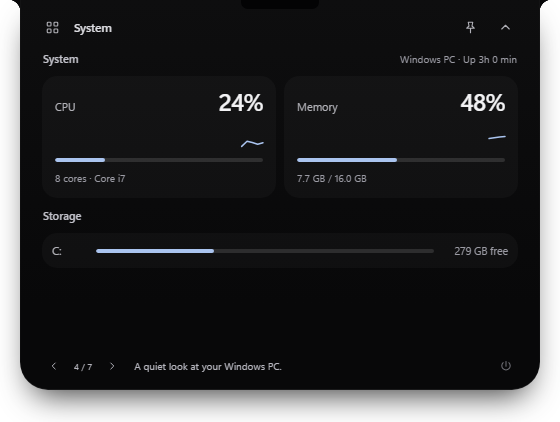
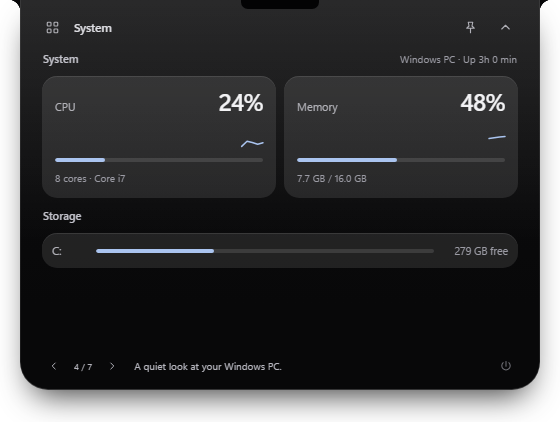
Make the glass levels visible, and stop telling signed-in users to sign in
Two reported faults, both real.

The glass control changed nothing anyone could see. Liquid and Frosted
differed only by 8px versus 12px of blur, over surfaces with almost
nothing behind them to blur, and the bloom was pinned to one opacity off
the media tab, so the level never reached the rest of the panel. Each
level now carries its own amount of light across the whole surface:
lens strength on the card, surface translucency, saturation, bloom and
rim, with Solid genuinely opaque. The renderer suite measures the mean
luminance of the rendered panel at each level and fails if the closest
pair is indistinguishable, so "the control does nothing" cannot come
back quietly.

The Claude card offered `claude auth login` to an account that was
already signed in. The CLI answers get_usage successfully and reports
subscription_type null with rate_limits_available false — a plan that
publishes no limits, not a missing session. That case is now its own
status and says so, and the sign-in prompt is kept for a profile with
no account on file.

Also fixes a sweep overlay that widened .layer-open's scroll area and
pushed music content around at the narrowest expanded width.

Tests: 16 unit suites and 127 renderer checks.

Changed region(s): [[0.0607, 0.154, 0.9411, 0.4313], [0.0304, 0.0, 0.9714, 0.0616]]

diff --git a/src/renderer/islet.css b/src/renderer/islet.css
@@ -26,28 +26,71 @@ button:focus-visible, select:focus-visible, input:focus-visible, textarea:focus-
 }
 body.state-open #card { background: var(--surface-open); box-shadow: 0 16px 32px -12px #000c; }
 body.state-open:not([data-glass="off"]) #card {
-  background: linear-gradient(180deg, var(--surface-sheen), var(--surface-open) 78%);
+  background:
+    linear-gradient(180deg, rgba(255, 255, 255, var(--islet-lens, .03)), rgba(255, 255, 255, 0) 62%),
+    linear-gradient(180deg, var(--surface-sheen), var(--surface-open) 78%);
 }
 body.state-closed #card, body.state-peek #card { background: var(--surface-rest); }
 button:focus-visible, select:focus-visible, input:focus-visible, textarea:focus-visible, summary:focus-visible { outline-color: var(--accent); }
 body.state-open .layer-open::before { display: none; }
 body.state-open:not([data-glass="off"]) .layer-open::before { display: none; }
+/* The sweep rides the gradient across a fixed-size box instead of moving the
+   box itself: a translated overlay widens .layer-open's scroll area, which
+   pushes real content around at narrow widths. */
+body.state-open[data-glass="high"] .layer-open::before {
+  display: block;
+  position: absolute;
+  inset: 0;
+  pointer-events: none;
+  border-radius: inherit;
+  background: linear-gradient(104deg, transparent 42%, #ffffff14 50%, transparent 58%);
+  background-size: 300% 100%;
+  transform: none;
+  animation: islet-sweep 820ms cubic-bezier(.24, .7, .3, 1) 90ms 1 both;
+}
+@keyframes islet-sweep {
+  from { background-position: 150% 0; }
+  to { background-position: -50% 0; }
+}
+@media (prefers-reduced-motion: reduce) {
+  body.state-open[data-glass="high"] .layer-open::before { animation: none; background: none; }
+}
 body.state-open.has-media:not([data-glass="off"]) .shell-content::before {
-  opacity: .2; filter: blur(40px) saturate(120%) brightness(.45);
+  opacity: var(--islet-bloom, .2); filter: blur(40px) saturate(120%) brightness(.45);
 }
-body.state-open:not([data-tab="media"]) .shell-content::before { opacity: .07; }
-body.state-open:not([data-glass="off"]) .shell-content::after {
-  box-shadow: inset 1px 0 #ffffff06, inset -1px 0 #ffffff06, inset 0 -1px #ffffff12;
+body.state-open:not([data-tab="media"]) .shell-content::before { opacity: calc(var(--islet-bloom, .2) * .3); }
+body.state-open .shell-content::after {
+  box-shadow: inset 1px 0 #ffffff06, inset -1px 0 #ffffff06, inset 0 -1px var(--islet-rim, #ffffff12);
 }
-body.state-open:not([data-glass="off"]) :is(.card, .shelf, .device, .ai-card, .clip-list, .disk-list, .scratchpad) {
-  background: #ffffff08; border-color: var(--edge-soft); box-shadow: none; backdrop-filter: none;
+/* Three glass levels have to be three things a person can tell apart at a
+   glance, or the control is a lie. Blur alone does not do it: there is very
+   little behind these surfaces to blur, so 8px and 12px look identical. What
+   separates them is how much light and colour the panel carries — bloom
+   strength, surface translucency and saturation — with blur along for the
+   ride. Solid is genuinely opaque, not a thin sheet. */
+body[data-glass="high"] {
+  --islet-blur: 18px; --islet-sat: 155%; --islet-surface: #ffffff1a; --islet-lens: .115;
+  --islet-surface-lift: #ffffff24; --islet-bloom: .4; --islet-rim: #ffffff26;
 }
-body.state-open[data-glass="high"] :is(.ai-card, .clip-list, .scratchpad) { background: #ffffff0a; }
-body[data-glass="low"] { --islet-blur: 4px; }
-body[data-glass="medium"] { --islet-blur: 8px; }
-body[data-glass="high"] { --islet-blur: 12px; }
+body[data-glass="medium"] {
+  --islet-blur: 9px; --islet-sat: 112%; --islet-surface: #ffffff09; --islet-lens: .012;
+  --islet-surface-lift: #ffffff0e; --islet-bloom: .1; --islet-rim: #ffffff14;
+}
+body[data-glass="off"] {
+  --islet-surface: #16161b; --islet-surface-lift: #1c1c22; --islet-bloom: 0; --islet-rim: #ffffff10;
+}
+
+body.state-open :is(.card, .shelf, .device, .ai-card, .clip-list, .disk-list, .scratchpad) {
+  background: var(--islet-surface); border-color: var(--edge-soft); box-shadow: none; backdrop-filter: none;
+}
+body.state-open :is(.ai-card, .clip-list, .scratchpad) { background: var(--islet-surface-lift); }
 body.state-open:not([data-glass="off"]):not(.is-morphing) :is(.card, .shelf, .device, .ai-card, .clip-list, .disk-list, .scratchpad) {
-  backdrop-filter: blur(var(--islet-blur, 12px)) saturate(110%);
+  backdrop-filter: blur(var(--islet-blur)) saturate(var(--islet-sat));
+}
+/* Only the top level gets the lit top lip; it is the cheapest cue that the
+   surface is glass rather than paint. */
+body.state-open[data-glass="high"] :is(.card, .shelf, .device, .ai-card, .clip-list, .scratchpad) {
+  box-shadow: inset 0 1px 0 #ffffff1a;
 }
 body.is-morphing .shell-content::before { visibility: hidden; }
 .layer-open, body[data-tab="ai"] .layer-open { height: var(--page-height, 350px); padding: 14px 22px 12px; gap: 10px; }
@@ -125,7 +168,7 @@ body.state-open:not([data-glass="off"]) .np, .np { background: none; border: 0; 
 .section-actions button { min-height: 24px; border-radius: 6px; padding: 4px 8px; font-size: 10px; background: #ffffff0b; color: #d0d0d8; }
 .section-actions button:hover { background: #ffffff18; }
 .devices { gap: 7px; }
-.device, body.state-open:not([data-glass="off"]) .device { border-radius: 13px; background: #ffffff08; border: 1px solid #ffffff08; min-height: 51px; transition: background 140ms, border-color 140ms, transform 180ms; }
+.device, body.state-open:not([data-glass="off"]) .device { border-radius: 13px; background: var(--islet-surface, #ffffff08); border: 1px solid #ffffff08; min-height: 51px; transition: background 140ms, border-color 140ms, transform 180ms; }
 .device .alias { font-size: 12px; font-weight: 500; }
 .device .addr { font-size: 10px; color: #b1b1bb; }
 body.dragging .shelf { border-color: #b3d3ff; background: #9fc7ff12 !important; transform: translate(var(--drop-x,0), var(--drop-y,0)); }

diff --git a/test/renderer-smoke.js b/test/renderer-smoke.js
@@ -65,6 +65,17 @@ function luminance(r, g, b) {
   return 0.2126 * channel(r) + 0.7152 * channel(g) + 0.0722 * channel(b);
 }
 
+async function meanLuminanceOf(selector) {
+  const rect = await js(`(() => { const el = document.querySelector(${JSON.stringify(selector)});
+    if (!el) return null; const r = el.getBoundingClientRect();
+    return { x: Math.floor(r.x), y: Math.floor(r.y), width: Math.ceil(r.width), height: Math.ceil(r.height) }; })()`);
+  if (!rect || rect.width < 2 || rect.height < 2) return null;
+  const bitmap = (await win.webContents.capturePage(rect)).toBitmap();
+  let total = 0;
+  for (let i = 0; i < bitmap.length; i += 4) total += luminance(bitmap[i + 2], bitmap[i + 1], bitmap[i]);
+  return total / (bitmap.length / 4);
+}
+
 async function contrastOf(selector) {
   const rect = await js(`(() => { const el = document.querySelector(${JSON.stringify(selector)});
     if (!el) return null; const r = el.getBoundingClientRect();
@@ -481,6 +492,23 @@ app.whenReady().then(async () => {
     check(fixturePreferences.glass === 'off' && await js(`document.body.dataset.glass === 'off'
       && getComputedStyle(document.querySelector('.shelf')).backdropFilter === 'none'`),
       'turning glass off in the control panel reaches the notch and drops the blur');
+    // Three levels the eye can separate, measured off the rendered pixels.
+    // A control that changes a CSS value nobody can see is a control that
+    // does not work, which is exactly how this one shipped the first time.
+    const drawn = {};
+    for (const level of ['high', 'medium', 'off']) {
+      await pjs(`document.querySelector('.segmented[data-preference="glass"] button[data-value="${level}"]').click()`);
+      await delay(320);
+      drawn[level] = await meanLuminanceOf('#card');
+    }
+    console.log('      glass levels, mean panel luminance: '
+      + Object.entries(drawn).map(([k, v]) => k + ' ' + v.toFixed(4)).join(', '));
+    const spread = [['high', 'medium'], ['medium', 'off'], ['high', 'off']]
+      .map(([a, b]) => Math.abs(drawn[a] - drawn[b]));
+    check(Math.min(...spread) > 0.0015,
+      'each glass level draws a visibly different surface (closest pair differs by '
+      + Math.min(...spread).toFixed(4) + ')');
+
     await pjs(`document.querySelector('.segmented[data-preference="glass"] button[data-value="high"]').click()`);
     await delay(200);
     // Glass is at its most visible with a cover behind it, which is the

diff --git a/src/renderer/panel-ai.js b/src/renderer/panel-ai.js
@@ -46,7 +46,7 @@ window.AiPanel = (() => {
     return card('limits', `<div class="ai-card-head"><span>Remaining quota</span><span class="ai-soft">Account</span></div>` + providers.map((id) => {
       const limits = data.limits[id];
       if (!limits) {
-        const reason = id === 'claude' ? { loading: 'Reading Claude account limits…', missing: 'Claude Code CLI not found', signin: 'Sign in to Claude Code with a supported plan', outdated: 'Update Claude Code to read account limits', unavailable: 'Claude account limits could not be read. Try Refresh.' }[data.claudeAccountStatus] || 'No Claude account reading yet' : { loading: 'Reading account limits…', missing: 'Codex CLI not found', signin: 'Sign in to Codex with ChatGPT', unavailable: 'Account quota is temporarily unavailable' }[data.accountStatus] || 'No quota data yet';
+        const reason = id === 'claude' ? { loading: 'Reading Claude account limits…', missing: 'Claude Code CLI not found', signin: 'Sign in to Claude Code with a supported plan', 'no-limits': 'This Claude plan does not publish usage limits', outdated: 'Update Claude Code to read account limits', unavailable: 'Claude account limits could not be read. Try Refresh.' }[data.claudeAccountStatus] || 'No Claude account reading yet' : { loading: 'Reading account limits…', missing: 'Codex CLI not found', signin: 'Sign in to Codex with ChatGPT', unavailable: 'Account quota is temporarily unavailable' }[data.accountStatus] || 'No quota data yet';
         return `<div class="ai-limit-empty"><b class="ai-provider-${id}">${labels[id]}</b><span>${reason}${id === 'claude' && data.claudeAccountStatus === 'signin' ? '<small class="ai-signin-hint">In Terminal: <code>claude auth login</code>, then Refresh.</small><button type="button" class="ai-connect" data-ai-connect>Connect Claude <span aria-hidden="true">↗</span></button>' : ''}</span></div>`;
       }
       const stale = now - limits.observedAt > 600000 || limits.source !== 'account';

diff --git a/test/ai-claude.js b/test/ai-claude.js
@@ -48,7 +48,10 @@ function stub(answer = reading, failure = null) {
   assert.deepEqual(fixture.calls.map(x => x.request), [{ subtype: 'initialize' }, { subtype: 'get_usage', skip_behaviors: true }], 'only account-control requests, no model turn');
   assert.equal((await readClaudeLimits({ executable: null })).status, 'missing');
   assert.equal((await readClaudeLimits({ executable: 'fixture.exe', ...stub({}, 'Unsupported control request subtype'), readProfile: noProfile })).status, 'outdated');
-  assert.equal((await readClaudeLimits({ executable: 'fixture.exe', ...stub({ rate_limits_available: false }), readProfile: noProfile })).status, 'signin');
+  // An account that reports no rate limits is not an account that needs to
+  // sign in: the CLI answered successfully, it just has nothing to publish.
+  assert.equal((await readClaudeLimits({ executable: 'fixture.exe', ...stub({ rate_limits_available: false }), readProfile: noProfile })).status, 'no-limits');
+  assert.equal((await readClaudeLimits({ executable: 'fixture.exe', ...stub({ rate_limits_available: false }), readProfile: () => ({ organization: null, fetchedAt: now }) })).status, 'signin', 'with no account on file it really is a sign-in');
   assert.equal((await readClaudeLimits({ executable: 'fixture.exe', ...stub(), readProfile: () => ({ organization: 'same', fetchedAt: now - 3600000 }) })).status, 'unavailable', 'old cached readings cannot masquerade as live quota');
   let version = 0;
   assert.equal((await readClaudeLimits({ executable: 'fixture.exe', ...stub(), readProfile: () => ({ organization: String(++version), fetchedAt: now }) })).status, 'unavailable', 'switching accounts cannot mix quota');

diff --git a/src/ai-claude.js b/src/ai-claude.js
@@ -109,7 +109,12 @@ function readClaudeLimits({ executable = findClaude(), spawnProcess = spawn, tim
         if (stage === 'initialize') { stage = 'usage'; send('usage', { subtype: 'get_usage', skip_behaviors: true }); }
         else {
           reading = response.response || {};
-          if (reading.rate_limits_available !== true) { finish({ status: 'signin' }); return; }
+          if (reading.rate_limits_available !== true) {
+            // An account is present when the CLI profile carries an org; the
+            // plan simply does not publish rate limits.
+            finish({ status: before.organization ? 'no-limits' : 'signin' });
+            return;
+          }
           // EOF lets the CLI save its quota-cache timestamp before we verify it.
           child.stdin.end();
           exitTimer = setTimeout(() => { child.kill(); }, 2000);
